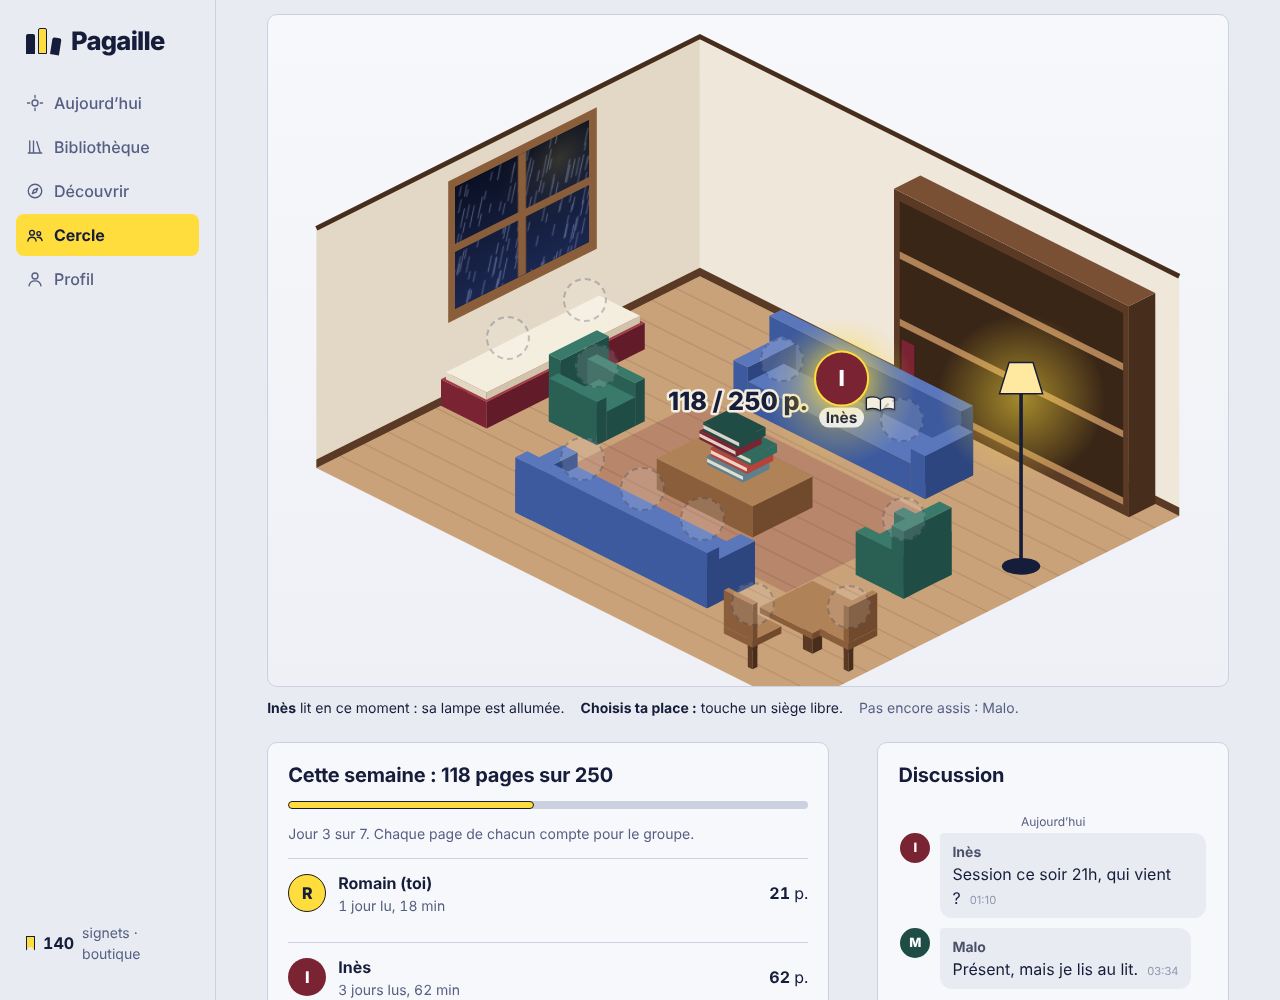
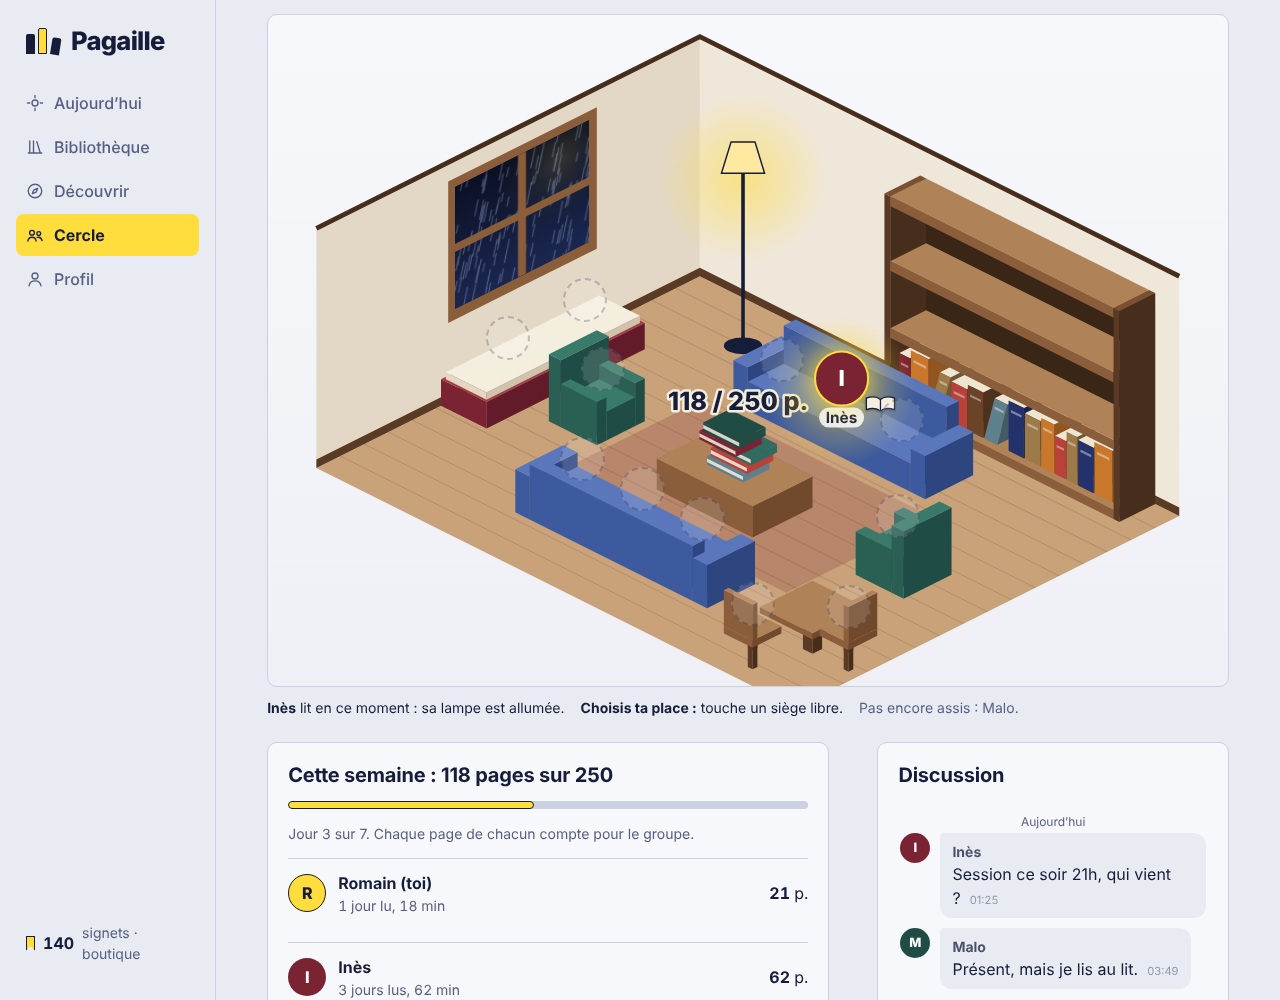
Fixed biblio and canape

diff --git a/src/components/Room.tsx b/src/components/Room.tsx
@@ -45,6 +45,13 @@ function Box({ x, y, z = 0, w, d, h, m }: { x: number; y: number; z?: number; w:
   )
 }
 
+type BoxProps = { x: number; y: number; z?: number; w: number; d: number; h: number; m: Mat }
+/** Plusieurs pavés d'un même meuble, triés par profondeur : les volumes ne doivent pas se chevaucher. */
+function Boxes({ l }: { l: BoxProps[] }) {
+  const k = (b: BoxProps) => b.x + b.w / 2 + b.y + b.d / 2
+  return <g>{[...l].sort((a, b) => k(a) - k(b) || (a.z ?? 0) - (b.z ?? 0)).map((b, i) => <Box key={i} {...b} />)}</g>
+}
+
 /** Un meuble à dessiner, trié par profondeur (centre au sol) pour que le plus proche passe devant. */
 type Piece = { depth: number; node: ReactNode }
 const piece = (x: number, y: number, w: number, d: number, node: ReactNode): Piece => ({ depth: x + w / 2 + y + d / 2, node })
@@ -60,8 +67,8 @@ export const SEATS: SeatDef[] = [
   { gx: 3.75, gy: 6.2, z: 28, kind: 'le canapé de devant' },
   { gx: 5, gy: 6.2, z: 28, kind: 'le canapé de devant' },
   { gx: 6.25, gy: 6.2, z: 28, kind: 'le canapé de devant' },
-  { gx: 8.35, gy: 4.1, z: 28, kind: 'le fauteuil près de la lampe' },
-  { gx: 1.95, gy: 4.1, z: 28, kind: 'le fauteuil près de la fenêtre' },
+  { gx: 8.22, gy: 4.1, z: 28, kind: 'le fauteuil près de l’étagère' },
+  { gx: 2.07, gy: 4.1, z: 28, kind: 'le fauteuil près de la fenêtre' },
   { gx: 8.5, gy: 7.4, z: 26, kind: 'la table de lecture' },
   { gx: 9.55, gy: 6.45, z: 26, kind: 'la table de lecture' },
 ]
@@ -74,29 +81,24 @@ const firstName = (n: string) => n.split(/\s+/)[0]
 /* ---------- meubles ---------- */
 
 function Sofa({ x, y, back }: { x: number; y: number; back: 'far' | 'near' }) {
-  // 4 × 1 ; le dossier côté mur (far) ou côté spectateur (near).
-  const by = back === 'far' ? y : y + 0.75
-  return (
-    <g>
-      {back === 'far' && <Box x={x} y={by} w={4} d={0.25} h={58} m={M.blue} />}
-      <Box x={x} y={y} w={0.3} d={1} h={36} m={M.blue} />
-      <Box x={x + 0.3} y={back === 'far' ? y + 0.25 : y} w={3.4} d={0.75} h={24} m={M.blue} />
-      <Box x={x + 3.7} y={y} w={0.3} d={1} h={36} m={M.blue} />
-      {back === 'near' && <Box x={x} y={by} w={4} d={0.25} h={46} m={M.blue} />}
-    </g>
-  )
+  // 4 × 1 ; accoudoirs sur toute la profondeur, dossier ENTRE les accoudoirs, côté mur (far) ou côté spectateur (near).
+  const by = back === 'far' ? y : y + 0.75, sy = back === 'far' ? y + 0.25 : y
+  return <Boxes l={[
+    { x, y, w: 0.3, d: 1, h: 36, m: M.blue },
+    { x: x + 0.3, y: sy, w: 3.4, d: 0.75, h: 24, m: M.blue },
+    { x: x + 0.3, y: by, w: 3.4, d: 0.25, h: back === 'far' ? 56 : 46, m: M.blue },
+    { x: x + 3.7, y, w: 0.3, d: 1, h: 36, m: M.blue },
+  ]} />
 }
 function Armchair({ x, y, back }: { x: number; y: number; back: 'right' | 'left' }) {
-  // 1 × 1 ; dossier contre gx+ (right) ou gx- (left).
-  return (
-    <g>
-      {back === 'left' && <Box x={x} y={y} w={0.25} d={1} h={56} m={M.green} />}
-      <Box x={x} y={y} w={1} d={0.2} h={36} m={M.green} />
-      <Box x={back === 'left' ? x + 0.25 : x} y={y + 0.2} w={0.75} d={0.6} h={24} m={M.green} />
-      <Box x={x} y={y + 0.8} w={1} d={0.2} h={36} m={M.green} />
-      {back === 'right' && <Box x={x + 0.75} y={y} w={0.25} d={1} h={56} m={M.green} />}
-    </g>
-  )
+  // 1 × 1 ; dossier sur toute la profondeur contre gx+ (right) ou gx- (left), accoudoirs et assise à côté.
+  const bx = back === 'left' ? x : x + 0.75, sx = back === 'left' ? x + 0.25 : x
+  return <Boxes l={[
+    { x: bx, y, w: 0.25, d: 1, h: 56, m: M.green },
+    { x: sx, y, w: 0.75, d: 0.2, h: 36, m: M.green },
+    { x: sx, y: y + 0.2, w: 0.75, d: 0.6, h: 24, m: M.green },
+    { x: sx, y: y + 0.8, w: 0.75, d: 0.2, h: 36, m: M.green },
+  ]} />
 }
 function Chair({ x, y, back }: { x: number; y: number; back: 'near' | 'right' }) {
   return (
@@ -108,34 +110,66 @@ function Chair({ x, y, back }: { x: number; y: number; back: 'near' | 'right' })
   )
 }
 
-/* ---------- étagère commune (mur de droite, face avant en gy = SD) ---------- */
-const SX = 4.6, SW = 4.9, SD = 0.55, SH = 176, PLANKS = [8, 64, 120]
-const onShelf = (gx: number, z: number) => P(gx, SD, z)
+/* ---------- étagère commune (contre le mur de droite) ----------
+   Un vrai meuble : fond, montant gauche, planches épaisses, montant droit devant. Les livres sont des pavés :
+   dos (face avant) à la couleur du livre, tranche du haut couleur papier. Un livre abandonné penche vers la
+   droite, appuyé sur son voisin, dans le plan de l'étagère. */
+const SX = 4.6, SW = 4.9, SD = 0.75, SH = 176, SIDE = 0.12
+const LEVELS = [0, 58, 114] // dessus de chaque planche = z + PT
+const PT = 8
+const BY0 = 0.14, BY1 = 0.62 // profondeur occupée par les livres
 
-function Shelf({ feed, uid }: { feed: FeedItem[]; uid: string }) {
-  const books: ReactNode[] = []
-  let p = 0, x = SX + 0.15
-  for (const f of feed) {
-    const h = hash(f.work_title + f.user_id)
-    const w = 0.28 + (h % 4) * 0.05, ht = 36 + (h % 12)
-    if (x + w > SX + SW - 0.15) { p++; x = SX + 0.15 }
-    if (p >= PLANKS.length) break
-    const z = PLANKS[p] + 6, tilt = f.status === 'abandon' ? 0.22 : 0
-    books.push(
-      <polygon key={f.user_book_id} points={pts([onShelf(x, z), onShelf(x + w, z), onShelf(x + w - tilt, z + ht), onShelf(x - tilt, z + ht)])} fill={SPINES[h % SPINES.length]} stroke="rgba(0,0,0,.25)" strokeWidth=".6">
-        <title>{`${f.work_title} — ${f.status === 'fini' ? 'terminé' : 'abandonné'} par ${f.user_id === uid ? 'toi' : f.display_name}`}</title>
-      </polygon>,
-    )
-    x += w + (tilt ? 0.3 : 0.04)
-  }
-  const [hx, hy] = onShelf(SX + SW / 2 - 1.6, 78)
+function shade(hex: string, f: number) {
+  const n = parseInt(hex.slice(1), 16)
+  const c = (v: number) => Math.round(Math.min(255, Math.max(0, v * f))).toString(16).padStart(2, '0')
+  return `#${c(n >> 16)}${c((n >> 8) & 255)}${c(n & 255)}`
+}
+
+function Book({ x, w, z, ht, lean, color, title }: { x: number; w: number; z: number; ht: number; lean: number; color: string; title: string }) {
+  const zt = z + ht, y0 = BY0, y1 = BY1
   return (
     <g>
-      <Box x={SX} y={0} w={SW} d={SD} h={SH} m={M.dark} />
-      {/* creux du meuble : le fond, puis les planches */}
-      <polygon points={pts([onShelf(SX + 0.12, 8), onShelf(SX + SW - 0.12, 8), onShelf(SX + SW - 0.12, SH - 8), onShelf(SX + 0.12, SH - 8)])} fill="var(--rm-shelf-back)" />
-      {PLANKS.map((z) => <polygon key={z} points={pts([onShelf(SX + 0.12, z), onShelf(SX + SW - 0.12, z), onShelf(SX + SW - 0.12, z + 6), onShelf(SX + 0.12, z + 6)])} fill="var(--rm-wood-top)" />)}
-      {books}
+      <title>{title}</title>
+      <polygon points={pts([P(x + w, y0, z), P(x + w, y1, z), P(x + w + lean, y1, zt), P(x + w + lean, y0, zt)])} fill={shade(color, 0.72)} />
+      <polygon points={pts([P(x + lean, y0, zt), P(x + w + lean, y0, zt), P(x + w + lean, y1, zt), P(x + lean, y1, zt)])} fill="#EFE6D2" />
+      <polygon points={pts([P(x, y1, z), P(x + w, y1, z), P(x + w + lean, y1, zt), P(x + lean, y1, zt)])} fill={color} />
+      <polygon points={pts([P(x + w * 0.15 + lean * 0.8, y1, zt - 9), P(x + w * 0.85 + lean * 0.8, y1, zt - 9), P(x + w * 0.85 + lean * 0.8, y1, zt - 7), P(x + w * 0.15 + lean * 0.8, y1, zt - 7)])} fill="#fff" opacity=".4" />
+    </g>
+  )
+}
+
+function Shelf({ feed, uid }: { feed: FeedItem[]; uid: string }) {
+  // Répartition des livres sur les trois niveaux, de gauche à droite.
+  const rows: ReactNode[][] = [[], [], []]
+  let p = 0, x = SX + SIDE + 0.06
+  const end = SX + SW - SIDE - 0.06
+  for (const f of feed) {
+    const h = hash(f.work_title + f.user_id)
+    const w = 0.22 + (h % 4) * 0.05, abandoned = f.status === 'abandon'
+    const ht = 32 + (h % 12), lean = abandoned ? 0.22 : 0
+    if (x + w + lean > end) { p++; x = SX + SIDE + 0.06 }
+    if (p >= rows.length) break
+    rows[p].push(
+      <Book key={f.user_book_id} x={x} w={w} z={LEVELS[p] + PT} ht={abandoned ? ht - 3 : ht} lean={lean} color={SPINES[h % SPINES.length]}
+        title={`${f.work_title} — ${f.status === 'fini' ? 'terminé' : 'abandonné'} par ${f.user_id === uid ? 'toi' : f.display_name}`} />,
+    )
+    x += w + lean + 0.02
+  }
+  const [hx, hy] = P(SX + 1.2, 0.05, 92)
+  const inner = { x: SX + SIDE, w: SW - 2 * SIDE }
+  return (
+    <g>
+      {/* fond du meuble */}
+      <polygon points={pts([P(SX, 0.02, 0), P(SX + SW, 0.02, 0), P(SX + SW, 0.02, SH), P(SX, 0.02, SH)])} fill="var(--rm-shelf-back)" />
+      <Box x={SX} y={0} w={SIDE} d={SD} h={SH} m={M.dark} />
+      {LEVELS.map((z, i) => (
+        <g key={z}>
+          <Box x={inner.x} y={0} w={inner.w} d={SD} h={PT} z={z} m={M.wood} />
+          {rows[i]}
+        </g>
+      ))}
+      <Box x={inner.x} y={0} w={inner.w} d={SD} h={PT} z={SH - PT} m={M.wood} />
+      <Box x={SX + SW - SIDE} y={0} w={SIDE} d={SD} h={SH} m={M.dark} />
       {!feed.length && <text transform={`matrix(1 .5 0 1 ${hx} ${hy})`} className="room-hint">Les livres finis du cercle viendront ici</text>}
     </g>
   )
@@ -164,7 +198,7 @@ function Pile({ total, goal }: { total: number; goal: number }) {
 }
 
 function Lamp({ on }: { on: boolean }) {
-  const [bx, by] = P(9.4, 2.7, 0), [sx, sy] = P(9.4, 2.7, 150)
+  const [bx, by] = P(1.9, 1.0, 0), [sx, sy] = P(1.9, 1.0, 150)
   return (
     <g>
       {on && <circle cx={sx} cy={sy + 10} r="70" fill="url(#room-glow)" />}
@@ -211,6 +245,7 @@ export default function Room({ members, feed, total, goal, readers, uid, ambianc
     piece(8.4, 6.05, 1.1, 1.1, <g><Box x={8.85} y={6.5} w={0.2} d={0.2} h={30} m={M.dark} /><Box x={8.4} y={6.05} w={1.1} d={1.1} h={5} z={30} m={M.wood} /></g>),
     piece(8.2, 7.1, 0.6, 0.6, <Chair x={8.2} y={7.1} back="near" />),
     piece(9.25, 6.15, 0.6, 0.6, <Chair x={9.25} y={6.15} back="right" />),
+    piece(1.8, 0.9, 0.2, 0.2, <Lamp on={readers.length > 0} />),
   ].sort((a, b) => a.depth - b.depth)
 
   return (
@@ -233,7 +268,6 @@ export default function Room({ members, feed, total, goal, readers, uid, ambianc
         <Shelf feed={feed} uid={uid} />
         {furniture.map((f, i) => <g key={i}>{f.node}</g>)}
         <Pile total={total} goal={goal} />
-        <Lamp on={readers.length > 0} />
         {[...bySeat].filter(([, m]) => reading.has(m.user_id)).map(([i]) => { const [x, y] = seatPt(SEATS[i]); return <circle key={i} cx={x} cy={y} r="62" fill="url(#room-glow)" /> })}
       </svg>
       <div className="room-window" style={{ left: pct(wx, W), top: pct(wy, H), width: pct(winW, W), height: pct(winH, H) }}>

diff --git a/dev/supabase.mock.ts b/dev/supabase.mock.ts
@@ -171,7 +171,15 @@ export const supabase = {
       if (!me) return { data: null, error: err('pas_membre') }
       me.seat = a.p_seat; return { data: a.p_seat, error: null }
     }
-    if (fn === 'circle_feed') return { data: [{ user_book_id: 'x1', user_id: 'u-ines', display_name: 'Inès', work_title: 'Maus', status: 'fini', closed_at: ago(0.2), cheer_count: 2, cheered_by_me: false }], error: null }
+    if (fn === 'circle_feed') {
+      // localStorage['mock.shelf'] = '0' : étagère vide (seulement « Maus »).
+      const more = globalThis.localStorage?.getItem('mock.shelf') === '0' ? [] : ([
+        ['Malo', 'u-malo', 'L’Étranger', 'fini'], ['Inès', 'u-ines', 'Ça', 'abandon'], ['Malo', 'u-malo', 'Dune', 'fini'], ['Inès', 'u-ines', 'Persepolis', 'fini'],
+        ['Malo', 'u-malo', 'Les Misérables', 'abandon'], ['Inès', 'u-ines', 'Le Petit Prince', 'fini'], ['Malo', 'u-malo', 'Fondation', 'fini'], ['Inès', 'u-ines', 'Kafka sur le rivage', 'fini'],
+        ['Malo', 'u-malo', 'La Horde du Contrevent', 'fini'], ['Inès', 'u-ines', 'Chanson douce', 'fini'], ['Malo', 'u-malo', 'Le Nom de la rose', 'fini'], ['Inès', 'u-ines', 'Sapiens', 'fini'],
+      ] as const).map(([n, id, t, st], i) => ({ user_book_id: 'x' + (i + 2), user_id: id, display_name: n, work_title: t, status: st, closed_at: ago(1 + i), cheer_count: 0, cheered_by_me: false }))
+      return { data: [{ user_book_id: 'x1', user_id: 'u-ines', display_name: 'Inès', work_title: 'Maus', status: 'fini', closed_at: ago(0.2), cheer_count: 2, cheered_by_me: false }, ...more], error: null }
+    }
     return { data: null, error: err('rpc inconnue ' + fn) }
   },
   auth: {
